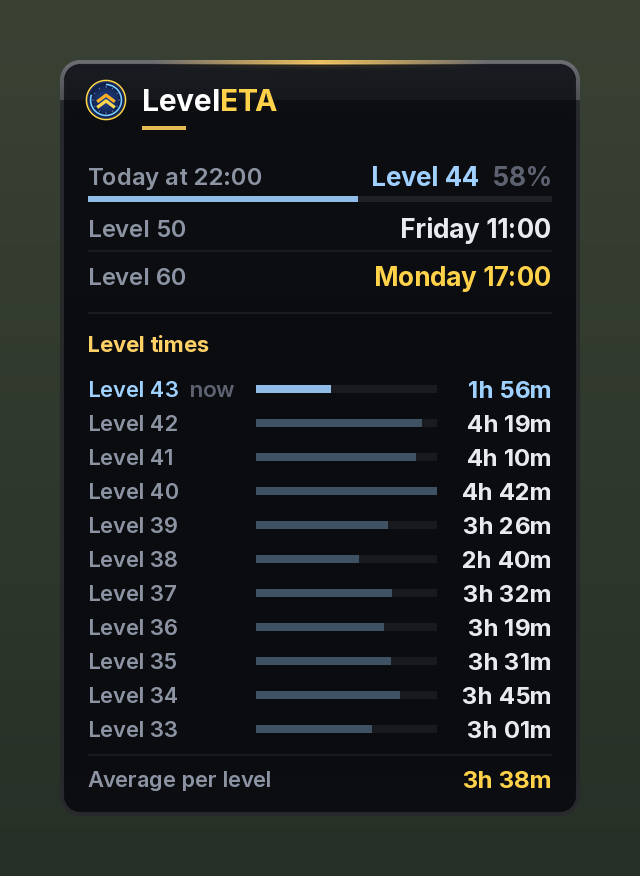
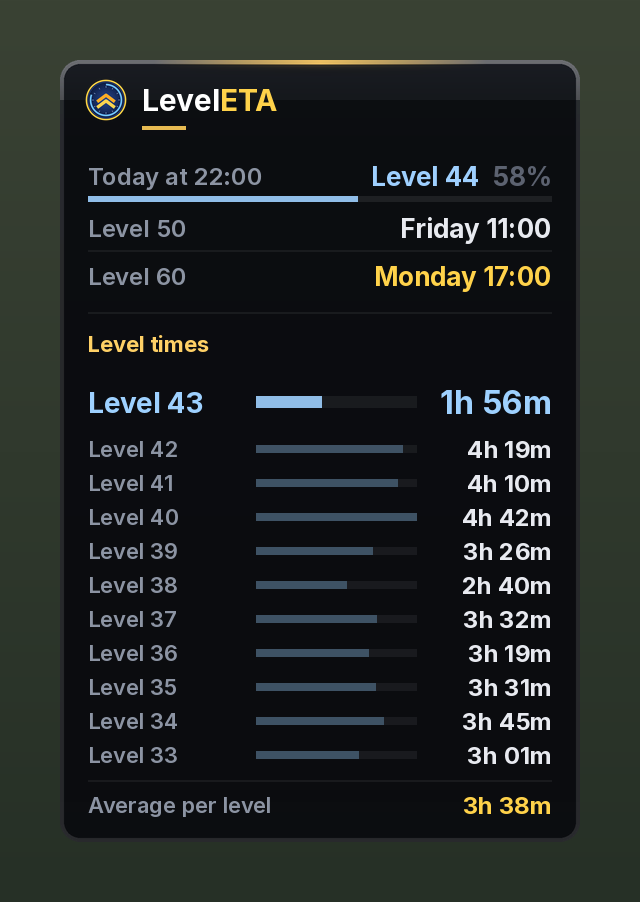
LevelETA 6.6: current level shown larger in level times
Claude-Session: https://claude.ai/code/session_01DXBRuJZEvaLALH5p4FBrk6

diff --git a/README.md b/README.md
@@ -16,7 +16,7 @@ Times are shown as real dates: *Tomorrow at 07:00*, *Friday at 18:30*, *Nov 21 a
 
 ### Level times (optional)
 
-Turn on **Show level times** in the settings to see how long each of your last 10 levels took. The level you are on now is shown in blue and counts up while you play, and your average per level is shown at the bottom. It is off by default.
+Turn on **Show level times** in the settings to see how long each of your last 10 levels took. The level you are on now is shown larger, in blue, and counts up while you play, and your average per level is shown at the bottom. It is off by default.
 
 ![LevelETA level times](screenshots/level-times.png)
 
